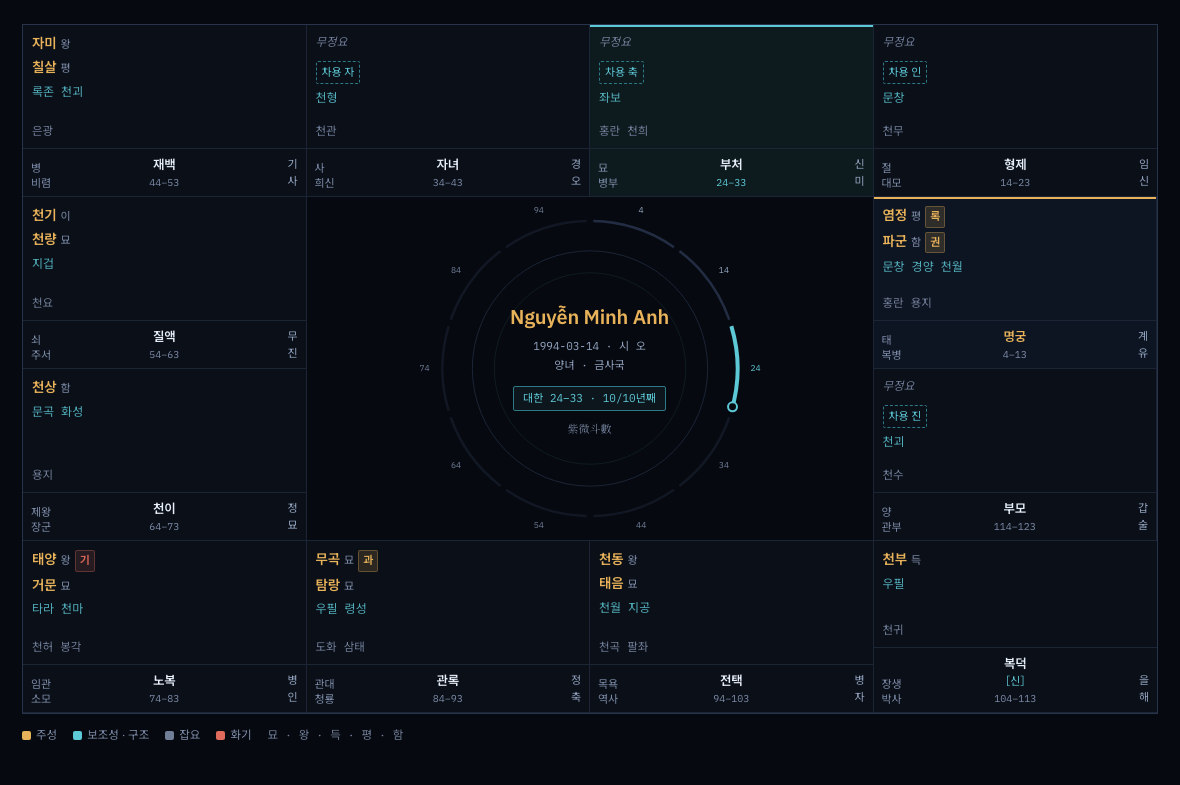
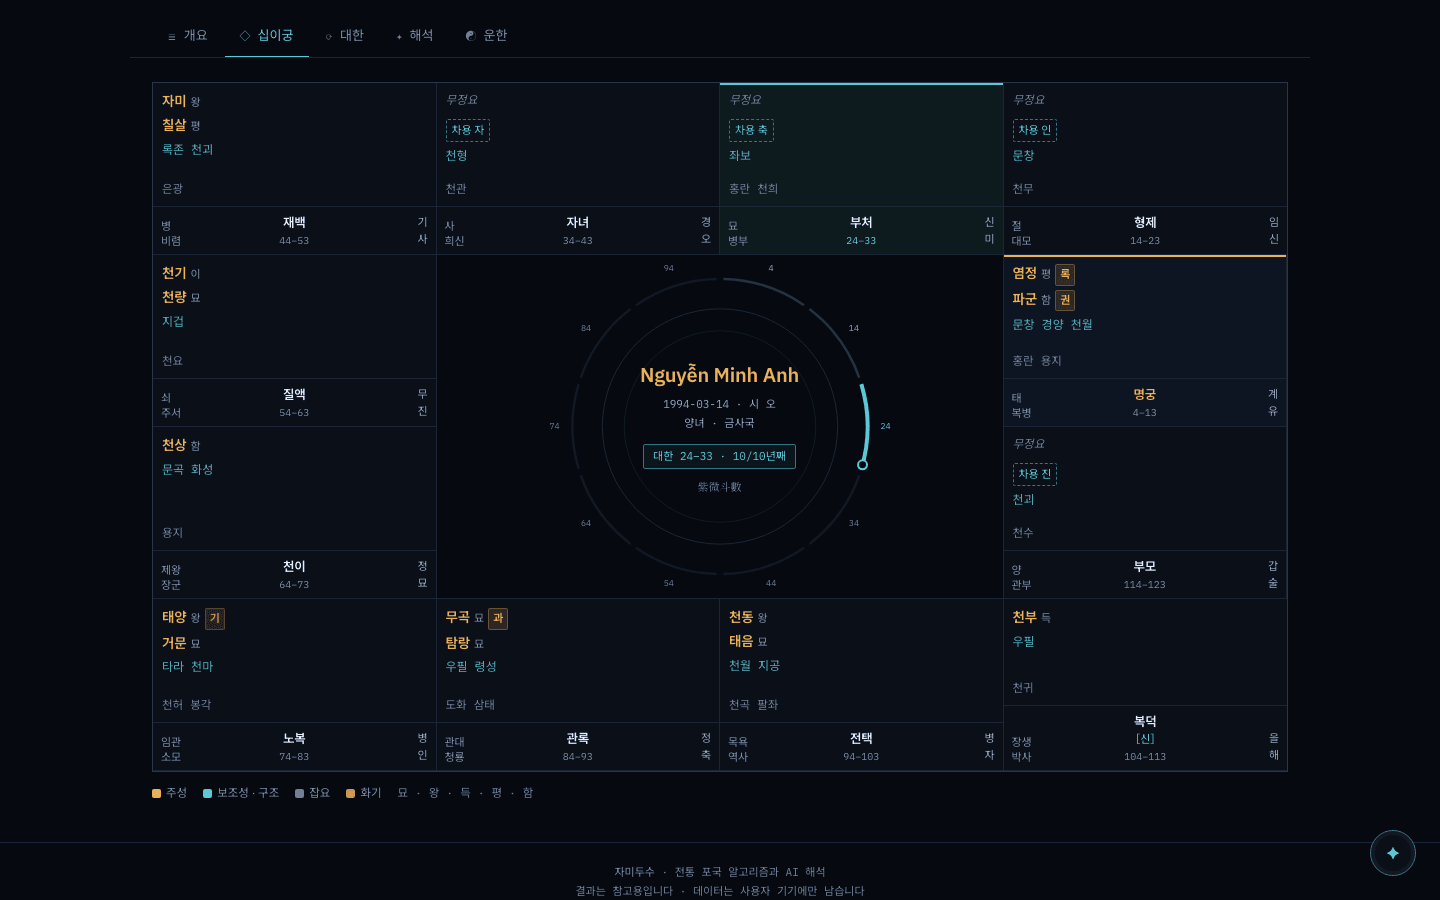
fix: every README screenshot is one 1440x900 frame
Element-scoped captures came out whatever size their component was, from
0.58 to 1.69 aspect, so no grid could line them up. The script now captures
the whole viewport with the subject scrolled into frame, and fails the run
if any PNG in public/screenshots/ is not exactly 1440x900.

- chat opens the floating panel over the chart, scrolled to the citation
  row, instead of a 440px column slice
- the Next dev badge is hidden; it is not part of the app
- frames are palette-quantised through sharp: 964 KB -> 312 KB for all seven
- the READMEs' two rows of three share one table and one tile width, so
  the columns align under the hero (checked against GitHub's own render)

diff --git a/README.vi.md b/README.vi.md
@@ -26,13 +26,10 @@ lại.
 <td width="33.3%" align="center"><a href="public/screenshots/reading.png"><img src="public/screenshots/reading.png" width="340" alt="Bài luận giải"></a><br><b>Bài luận giải</b></td>
 <td width="33.3%" align="center"><a href="public/screenshots/daivan.png"><img src="public/screenshots/daivan.png" width="340" alt="Bảng đại vận"></a><br><b>Bảng đại vận</b></td>
 </tr>
-</table>
-
-<table>
 <tr>
-<td width="33.3%" align="center"><a href="public/screenshots/landing.png"><img src="public/screenshots/landing.png" width="220" alt="Trang chủ"></a><br><sub><b>Trang chủ</b></sub></td>
-<td width="33.3%" align="center"><a href="public/screenshots/chat.png"><img src="public/screenshots/chat.png" width="220" alt="Hỏi đáp"></a><br><sub><b>Hỏi đáp</b></sub></td>
-<td width="33.3%" align="center"><a href="public/screenshots/chart-ko.png"><img src="public/screenshots/chart-ko.png" width="220" alt="Tiếng Hàn"></a><br><sub><b>Tiếng Hàn</b></sub></td>
+<td width="33.3%" align="center"><a href="public/screenshots/landing.png"><img src="public/screenshots/landing.png" width="340" alt="Trang chủ"></a><br><b>Trang chủ</b></td>
+<td width="33.3%" align="center"><a href="public/screenshots/chat.png"><img src="public/screenshots/chat.png" width="340" alt="Hỏi đáp"></a><br><b>Hỏi đáp</b></td>
+<td width="33.3%" align="center"><a href="public/screenshots/chart-ko.png"><img src="public/screenshots/chart-ko.png" width="340" alt="Tiếng Hàn"></a><br><b>Tiếng Hàn</b></td>
 </tr>
 </table>
 

diff --git a/README.ko.md b/README.ko.md
@@ -26,13 +26,10 @@
 <td width="33.3%" align="center"><a href="public/screenshots/reading.png"><img src="public/screenshots/reading.png" width="340" alt="해석문"></a><br><b>해석문</b></td>
 <td width="33.3%" align="center"><a href="public/screenshots/daivan.png"><img src="public/screenshots/daivan.png" width="340" alt="대한 타임라인"></a><br><b>대한 타임라인</b></td>
 </tr>
-</table>
-
-<table>
 <tr>
-<td width="33.3%" align="center"><a href="public/screenshots/landing.png"><img src="public/screenshots/landing.png" width="220" alt="첫 화면"></a><br><sub><b>첫 화면</b></sub></td>
-<td width="33.3%" align="center"><a href="public/screenshots/chat.png"><img src="public/screenshots/chat.png" width="220" alt="대화"></a><br><sub><b>대화</b></sub></td>
-<td width="33.3%" align="center"><a href="public/screenshots/chart-ko.png"><img src="public/screenshots/chart-ko.png" width="220" alt="한국어"></a><br><sub><b>한국어</b></sub></td>
+<td width="33.3%" align="center"><a href="public/screenshots/landing.png"><img src="public/screenshots/landing.png" width="340" alt="첫 화면"></a><br><b>첫 화면</b></td>
+<td width="33.3%" align="center"><a href="public/screenshots/chat.png"><img src="public/screenshots/chat.png" width="340" alt="대화"></a><br><b>대화</b></td>
+<td width="33.3%" align="center"><a href="public/screenshots/chart-ko.png"><img src="public/screenshots/chart-ko.png" width="340" alt="한국어"></a><br><b>한국어</b></td>
 </tr>
 </table>
 

diff --git a/README.zh-Hans.md b/README.zh-Hans.md
@@ -23,13 +23,10 @@
 <td width="33.3%" align="center"><a href="public/screenshots/reading.png"><img src="public/screenshots/reading.png" width="340" alt="命盘解读"></a><br><b>命盘解读</b></td>
 <td width="33.3%" align="center"><a href="public/screenshots/daivan.png"><img src="public/screenshots/daivan.png" width="340" alt="大限时间轴"></a><br><b>大限时间轴</b></td>
 </tr>
-</table>
-
-<table>
 <tr>
-<td width="33.3%" align="center"><a href="public/screenshots/landing.png"><img src="public/screenshots/landing.png" width="220" alt="首页"></a><br><sub><b>首页</b></sub></td>
-<td width="33.3%" align="center"><a href="public/screenshots/chat.png"><img src="public/screenshots/chat.png" width="220" alt="追问对话"></a><br><sub><b>追问对话</b></sub></td>
-<td width="33.3%" align="center"><a href="public/screenshots/chart-ko.png"><img src="public/screenshots/chart-ko.png" width="220" alt="韩语"></a><br><sub><b>韩语</b></sub></td>
+<td width="33.3%" align="center"><a href="public/screenshots/landing.png"><img src="public/screenshots/landing.png" width="340" alt="首页"></a><br><b>首页</b></td>
+<td width="33.3%" align="center"><a href="public/screenshots/chat.png"><img src="public/screenshots/chat.png" width="340" alt="追问对话"></a><br><b>追问对话</b></td>
+<td width="33.3%" align="center"><a href="public/screenshots/chart-ko.png"><img src="public/screenshots/chart-ko.png" width="340" alt="韩语"></a><br><b>韩语</b></td>
 </tr>
 </table>
 

diff --git a/README.zh-Hant.md b/README.zh-Hant.md
@@ -23,13 +23,10 @@
 <td width="33.3%" align="center"><a href="public/screenshots/reading.png"><img src="public/screenshots/reading.png" width="340" alt="命盤解讀"></a><br><b>命盤解讀</b></td>
 <td width="33.3%" align="center"><a href="public/screenshots/daivan.png"><img src="public/screenshots/daivan.png" width="340" alt="大限時間軸"></a><br><b>大限時間軸</b></td>
 </tr>
-</table>
-
-<table>
 <tr>
-<td width="33.3%" align="center"><a href="public/screenshots/landing.png"><img src="public/screenshots/landing.png" width="220" alt="首頁"></a><br><sub><b>首頁</b></sub></td>
-<td width="33.3%" align="center"><a href="public/screenshots/chat.png"><img src="public/screenshots/chat.png" width="220" alt="追問對話"></a><br><sub><b>追問對話</b></sub></td>
-<td width="33.3%" align="center"><a href="public/screenshots/chart-ko.png"><img src="public/screenshots/chart-ko.png" width="220" alt="韓文"></a><br><sub><b>韓文</b></sub></td>
+<td width="33.3%" align="center"><a href="public/screenshots/landing.png"><img src="public/screenshots/landing.png" width="340" alt="首頁"></a><br><b>首頁</b></td>
+<td width="33.3%" align="center"><a href="public/screenshots/chat.png"><img src="public/screenshots/chat.png" width="340" alt="追問對話"></a><br><b>追問對話</b></td>
+<td width="33.3%" align="center"><a href="public/screenshots/chart-ko.png"><img src="public/screenshots/chart-ko.png" width="340" alt="韓文"></a><br><b>韓文</b></td>
 </tr>
 </table>
 

diff --git a/README.md b/README.md
@@ -27,13 +27,10 @@ export captures.
 <td width="33.3%" align="center"><a href="public/screenshots/reading.png"><img src="public/screenshots/reading.png" width="340" alt="The reading"></a><br><b>The reading</b></td>
 <td width="33.3%" align="center"><a href="public/screenshots/daivan.png"><img src="public/screenshots/daivan.png" width="340" alt="Đại vận timeline"></a><br><b>Đại vận timeline</b></td>
 </tr>
-</table>
-
-<table>
 <tr>
-<td width="33.3%" align="center"><a href="public/screenshots/landing.png"><img src="public/screenshots/landing.png" width="220" alt="Landing"></a><br><sub><b>Landing</b></sub></td>
-<td width="33.3%" align="center"><a href="public/screenshots/chat.png"><img src="public/screenshots/chat.png" width="220" alt="Chat"></a><br><sub><b>Chat</b></sub></td>
-<td width="33.3%" align="center"><a href="public/screenshots/chart-ko.png"><img src="public/screenshots/chart-ko.png" width="220" alt="Korean"></a><br><sub><b>Korean</b></sub></td>
+<td width="33.3%" align="center"><a href="public/screenshots/landing.png"><img src="public/screenshots/landing.png" width="340" alt="Landing"></a><br><b>Landing</b></td>
+<td width="33.3%" align="center"><a href="public/screenshots/chat.png"><img src="public/screenshots/chat.png" width="340" alt="Chat"></a><br><b>Chat</b></td>
+<td width="33.3%" align="center"><a href="public/screenshots/chart-ko.png"><img src="public/screenshots/chart-ko.png" width="340" alt="Korean"></a><br><b>Korean</b></td>
 </tr>
 </table>
 
